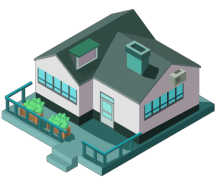
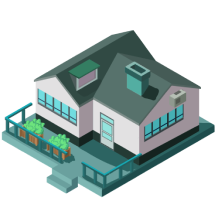
main 건물 이미지 크기 수정

Changed region(s): [[0.0, 0.0552, 0.9908, 0.9669], [0.9083, 0.5249, 0.9633, 0.5801], [0.4128, 0.5801, 0.4404, 0.6077]]

diff --git a/frontend/myapp/src/pages/Main.js b/frontend/myapp/src/pages/Main.js
@@ -2,11 +2,11 @@ import React from "react";
 
 //사용자의 레벨에 따른 이미지 5가지
 
-import image_level from '../image/house.png'
+// import image_level from '../image/house.png'
 // import image_level from '../image/startup.png'
 // import image_level from '../image/low.png'
 // import image_level from '../image/middle.png'
-// import image_level from '../image/high.png'
+import image_level from '../image/high.png'
 
 import logo from '../image/logo123.png'
 import "./Main.scss"

diff --git a/frontend/myapp/src/pages/Main.scss b/frontend/myapp/src/pages/Main.scss
@@ -9,8 +9,8 @@
 
     .Logo_container1 {
       position: absolute;
-      left: 85px;
-      top: 210px;
+      left: 80px;
+      top: 230px;
       text-align: right;
       display: table;
       border: 0;
@@ -20,11 +20,11 @@
 
     .Div_img {
       display: table-cell;
-      vertical-align: middle;
+      vertical-align: top;
     }
 
     .Img_level {
-      max-width: 210px;
+      max-width: 250px;
       max-height: 250px;
     }
 
